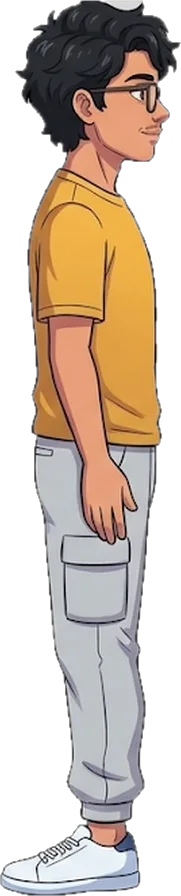
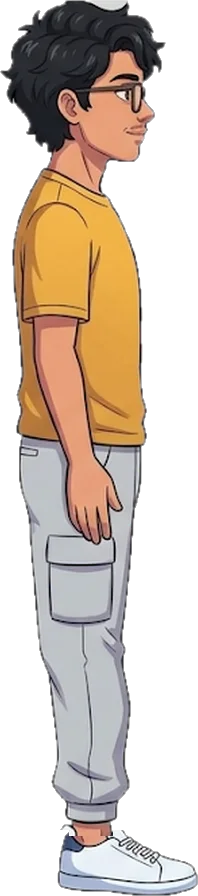
Story plays as a self-running film with animated scene cards; fix side-view shoe direction

diff --git a/components/story/StoryPlayer.js b/components/story/StoryPlayer.js
@@ -1,0 +1,98 @@
+'use client';
+import { useCallback, useEffect, useRef, useState } from 'react';
+import { AnimatePresence, motion, useAnimationFrame, useMotionValue } from 'motion/react';
+import { Pause, Play, SkipForward, X, RotateCcw } from 'lucide-react';
+import Chapter from './Chapter';
+import TimeCard from './TimeCard';
+import { scenes } from './scenes';
+import { chapters, cards } from '@/lib/story';
+
+export const CARD_SECONDS = 2.6;
+const BEAT_SECONDS = 4.6;
+/** How long a chapter plays: its title, then every beat with time to read it. */
+export const chapterSeconds = (c) => 3 + c.beats.length * BEAT_SECONDS;
+
+/**
+ * The story as a film that plays by itself: time card → chapter → time card → …
+ * Controls: pause/play (Space), next chapter (→), close (Esc).
+ */
+export default function StoryPlayer({ onClose, onProjects }) {
+  const [i, setI] = useState(0);
+  const [phase, setPhase] = useState('card'); // 'card' | 'play' | 'end'
+  const [paused, setPaused] = useState(false);
+  const progress = useMotionValue(0);
+  const cardT = useRef(0);
+  const bar = useRef(null);
+
+  const goTo = useCallback((n) => {
+    if (n >= chapters.length) { setPhase('end'); return; }
+    setI(n); setPhase('card'); cardT.current = 0; progress.set(0);
+  }, [progress]);
+
+  useAnimationFrame((_, ms) => {
+    if (paused) return;
+    const dt = Math.min(ms, 50) / 1000;
+    if (phase === 'card') {
+      cardT.current += dt;
+      if (cardT.current >= CARD_SECONDS) setPhase('play');
+    } else if (phase === 'play') {
+      const p = Math.min(1, progress.get() + dt / chapterSeconds(chapters[i]));
+      progress.set(p);
+      if (p >= 1) goTo(i + 1);
+    }
+    if (bar.current) {
+      const total = chapters.reduce((s, c) => s + CARD_SECONDS + chapterSeconds(c), 0);
+      const done = chapters.slice(0, i).reduce((s, c) => s + CARD_SECONDS + chapterSeconds(c), 0) + (phase === 'card' ? cardT.current : CARD_SECONDS + progress.get() * chapterSeconds(chapters[i]));
+      bar.current.style.transform = `scaleX(${phase === 'end' ? 1 : done / total})`;
+    }
+  });
+
+  useEffect(() => {
+    const onKey = (e) => {
+      if (e.key === 'Escape') onClose();
+      else if (e.key === ' ') { e.preventDefault(); setPaused((p) => !p); }
+      else if (e.key === 'ArrowRight') goTo(i + 1);
+    };
+    window.addEventListener('keydown', onKey);
+    const prev = document.body.style.overflow;
+    document.body.style.overflow = 'hidden';
+    return () => { window.removeEventListener('keydown', onKey); document.body.style.overflow = prev; };
+  }, [onClose, goTo, i]);
+
+  const c = chapters[i];
+  return (
+    <div role="dialog" aria-modal="true" aria-label="Krish’s story" className="fixed inset-0 z-[70] bg-night text-fg">
+      <AnimatePresence mode="sync">
+        {phase === 'play' && (
+          <motion.div key={`ch-${c.id}`} className="absolute inset-0" initial={{ scale: 1.08, opacity: 0 }} animate={{ scale: 1, opacity: 1 }} exit={{ scale: 0.96, opacity: 0 }} transition={{ duration: 0.6, ease: [0.2, 0.8, 0.2, 1] }}>
+            <Chapter chapter={c} Scene={scenes[c.scene]} progress={progress} />
+          </motion.div>
+        )}
+        {phase === 'card' && <TimeCard key={`card-${i}`} card={cards[i]} />}
+        {phase === 'end' && (
+          <motion.div key="end" className="absolute inset-0 grid place-items-center text-center px-6 bg-night" initial={{ opacity: 0 }} animate={{ opacity: 1 }}>
+            <div>
+              <p className="text-teal font-semibold">The end, for now</p>
+              <h3 className="mt-2 font-display font-extrabold text-5xl sm:text-7xl leading-[0.92] max-w-[14ch] mx-auto">Still figuring it out. That’s the point.</h3>
+              <div className="mt-10 flex flex-wrap justify-center gap-3">
+                <button type="button" onClick={() => goTo(0)} className="sticker sticker-hover rounded-full bg-surface px-6 py-3 font-semibold inline-flex items-center gap-2 cursor-pointer"><RotateCcw size={18} aria-hidden="true" /> Watch again</button>
+                <button type="button" onClick={onProjects ?? onClose} className="sticker sticker-hover rounded-full bg-mustard px-6 py-3 font-semibold cursor-pointer">See my projects</button>
+              </div>
+            </div>
+          </motion.div>
+        )}
+      </AnimatePresence>
+
+      <div className="absolute inset-x-0 bottom-0 z-[80] h-1 bg-white/10"><div ref={bar} className="h-full origin-left bg-mustard" style={{ transform: 'scaleX(0)' }} /></div>
+      <div className="absolute right-3 top-3 z-[80] flex gap-2">
+        {phase !== 'end' && (
+          <>
+            <button type="button" onClick={() => setPaused((p) => !p)} aria-label={paused ? 'Play' : 'Pause'} className="grid place-items-center size-11 rounded-full bg-night/70 backdrop-blur border border-line hover:border-mustard cursor-pointer">{paused ? <Play size={18} /> : <Pause size={18} />}</button>
+            <button type="button" onClick={() => goTo(i + 1)} aria-label="Next chapter" className="grid place-items-center size-11 rounded-full bg-night/70 backdrop-blur border border-line hover:border-mustard cursor-pointer"><SkipForward size={18} /></button>
+          </>
+        )}
+        <button type="button" onClick={onClose} aria-label="Close the story" className="grid place-items-center size-11 rounded-full bg-night/70 backdrop-blur border border-line hover:border-mustard cursor-pointer"><X size={18} /></button>
+      </div>
+    </div>
+  );
+}

diff --git a/components/story/StoryGate.js b/components/story/StoryGate.js
@@ -1,7 +1,10 @@
 'use client';
 import { useEffect, useState } from 'react';
 import { Play } from 'lucide-react';
-import Story from './Story';
+import { useReducedMotion } from 'motion/react';
+import StaticStory from './StaticStory';
+import StoryPlayer from './StoryPlayer';
+import { chapters } from '@/lib/story';
 import Surat from './scenes/Surat';
 import { motionValue } from 'motion/react';
 
@@ -10,7 +13,11 @@ const still = motionValue(0.2);
 /** The optional cinematic story at the end of the portfolio. Nothing loads until the visitor presses play. */
 export default function StoryGate() {
   const [open, setOpen] = useState(false);
-  useEffect(() => { if (open) requestAnimationFrame(() => document.getElementById('surat')?.scrollIntoView({ behavior: 'smooth' })); }, [open]);
+  const reduce = useReducedMotion();
+  // Reduced motion: the story opens as a calm page below instead of a film.
+  useEffect(() => { if (open && reduce) requestAnimationFrame(() => document.getElementById('surat')?.scrollIntoView({ behavior: 'smooth' })); }, [open, reduce]);
+  const close = () => { setOpen(false); };
+  const toProjects = () => { setOpen(false); requestAnimationFrame(() => document.getElementById('projects')?.scrollIntoView({ behavior: 'smooth' })); };
 
   return (
     <section id="story" data-story aria-labelledby="story-title" className="relative border-t border-line">
@@ -18,13 +25,11 @@ export default function StoryGate() {
         <div aria-hidden="true" className="absolute inset-0 opacity-60"><Surat progress={still} /></div>
         <div aria-hidden="true" className="absolute inset-0 bg-gradient-to-t from-night via-night/70 to-night/30" />
         <div className="relative z-10 mx-auto max-w-6xl h-full px-5 flex flex-col justify-end pb-[12svh]">
-          <p className="text-teal font-semibold text-lg">Optional, about three minutes</p>
+          <p className="text-teal font-semibold text-lg">A short film, about two minutes</p>
           <h2 id="story-title" className="mt-2 font-display font-extrabold tracking-tight text-5xl sm:text-7xl leading-[0.92] max-w-[16ch]">The story of someone who refused to stop figuring things out.</h2>
           <p className="mt-5 text-lg text-muted max-w-[52ch]">Five chapters from Surat to the starting grid: the lost first year, the App Store rejections, six hard months at Samsung PRISM, and the wins that came after.</p>
           <div className="mt-8">
-            {open ? (
-              <a href="#surat" className="sticker sticker-hover rounded-full bg-mustard px-7 py-3.5 font-semibold text-lg inline-flex items-center gap-2"><Play size={20} aria-hidden="true" /> Back to the start</a>
-            ) : (
+            {(
               <button type="button" onClick={() => setOpen(true)} className="group sticker sticker-hover rounded-full bg-mustard px-7 py-3.5 font-semibold text-lg inline-flex items-center gap-3 cursor-pointer">
                 <span className="grid place-items-center size-8 rounded-full bg-night text-mustard transition-transform group-hover:scale-110"><Play size={16} fill="currentColor" aria-hidden="true" /></span>
                 Play the story
@@ -33,7 +38,7 @@ export default function StoryGate() {
           </div>
         </div>
       </div>
-      {open && <Story />}
+      {open && (reduce ? <StaticStory chapters={chapters} /> : <StoryPlayer onClose={close} onProjects={toProjects} />)}
     </section>
   );
 }

diff --git a/components/story/Chapter.js b/components/story/Chapter.js
@@ -22,7 +22,7 @@ function BeatSlot({ beat, i, n, progress, sectionRef }) {
   const y = useTransform(progress, [s, s + f], [40, 0]);
   // Keyboard users: focusing a link inside a beat scrolls the story to that beat.
   const onFocusCapture = () => {
-    const el = sectionRef.current;
+    const el = sectionRef?.current;
     if (!el) return;
     const top = el.getBoundingClientRect().top + window.scrollY;
     window.scrollTo({ top: top + ((s + e) / 2) * (el.offsetHeight - window.innerHeight) });
@@ -35,13 +35,13 @@ function BeatSlot({ beat, i, n, progress, sectionRef }) {
 }
 
 /** A chapter of the story: a sticky stage the visitor scrolls through like a film scene. */
-export default function Chapter({ chapter, Scene }) {
+export default function Chapter({ chapter, Scene, progress: played }) {
   const ref = useRef(null);
   const { mood, setBase } = useAvatar();
-  const { scrollYProgress: progress } = useScroll({ target: ref, offset: ['start start', 'end end'] });
+  const { scrollYProgress } = useScroll({ target: ref, offset: ['start start', 'end end'] });
+  // Played by the story player (time-driven), or scrubbed by scrolling.
+  const progress = played ?? scrollYProgress;
   const titleOpacity = useTransform(progress, [0, 0.03, START - 0.03, START], [1, 1, 1, 0]);
-  // Cut from and to black at each end of the chapter, like a film edit.
-  const black = useTransform(progress, [0, 0.025, 0.975, 1], [1, 0, 0, 1]);
   const titleScale = useTransform(progress, [0, START], [1, 1.08]);
   const lastBeat = useRef(-2);
   const n = chapter.beats.length;
@@ -56,8 +56,8 @@ export default function Chapter({ chapter, Scene }) {
   });
 
   return (
-    <section ref={ref} id={chapter.id} aria-labelledby={`${chapter.id}-title`} data-chapter={chapter.id} style={{ height: `${(n + 1.6) * 100}svh` }} className="relative">
-      <div data-pinned className="sticky top-0 h-dvh overflow-hidden">
+    <section ref={ref} id={chapter.id} aria-labelledby={`${chapter.id}-title`} data-chapter={chapter.id} style={{ height: played ? '100%' : `${(n + 1.6) * 100}svh` }} className="relative">
+      <div data-pinned className={`${played ? "absolute inset-0" : "sticky top-0 h-dvh"} overflow-hidden`}>
         <div className="absolute inset-0"><Scene progress={progress} /></div>
 
         <motion.div style={{ opacity: titleOpacity, scale: titleScale }} className="absolute z-30 inset-x-0 top-[9dvh] flex justify-center px-6 text-center pointer-events-none">
@@ -76,11 +76,10 @@ export default function Chapter({ chapter, Scene }) {
 
         <ol className="absolute z-30 left-4 right-4 top-[8dvh] lg:top-0 lg:h-full lg:left-auto lg:right-[6vw] lg:w-[400px]">
           {chapter.beats.map((beat, i) => (
-            <BeatSlot key={i} beat={beat} i={i} n={n} progress={progress} sectionRef={ref} />
+            <BeatSlot key={i} beat={beat} i={i} n={n} progress={progress} sectionRef={played ? null : ref} />
           ))}
         </ol>
 
-        <motion.div aria-hidden="true" style={{ opacity: black }} className="absolute inset-0 bg-black pointer-events-none z-40" />
         <div aria-hidden="true" className="absolute inset-x-0 top-0 h-[5dvh] bg-black z-40" />
         <div aria-hidden="true" className="absolute inset-x-0 bottom-0 h-[5dvh] bg-black z-40" />
       </div>

diff --git a/components/story/TimeCard.js b/components/story/TimeCard.js
@@ -1,0 +1,46 @@
+'use client';
+import { motion } from 'motion/react';
+
+const shapes = {
+  kites: (c) => <path d="M0 -16 L12 0 L0 18 L-12 0Z" fill={c} />,
+  arrows: (c) => <path d="M-14 -6 H4 V-14 L16 0 L4 14 V6 H-14Z" fill={c} />,
+  stars: (c) => <path d="M0 -16 L4.7 -5 16 -5 7 2 10 14 0 7 -10 14 -7 2 -16 -5 -4.7 -5Z" fill={c} />,
+  moons: (c) => <path d="M6 -14 A14 14 0 1 0 6 14 A10 10 0 1 1 6 -14Z" fill={c} />,
+  flags: (c) => <g fill={c}><rect x="-14" y="-14" width="10" height="10" /><rect x="4" y="-14" width="10" height="10" /><rect x="-4" y="-4" width="10" height="10" /><rect x="-14" y="6" width="10" height="10" /><rect x="4" y="6" width="10" height="10" /></g>,
+};
+
+/** A bold scene card between chapters: patterned backdrop, chunky wobbling text, zooms through. */
+export default function TimeCard({ card }) {
+  const words = card.text.split(' ');
+  return (
+    <motion.div
+      className="absolute inset-0 grid place-items-center overflow-hidden"
+      style={{ background: card.bg }}
+      initial={{ clipPath: 'circle(0% at 50% 50%)' }}
+      animate={{ clipPath: 'circle(150% at 50% 50%)' }}
+      exit={{ scale: 1.6, opacity: 0, rotate: 4 }}
+      transition={{ duration: 0.6, ease: [0.7, 0, 0.3, 1] }}
+    >
+      <motion.svg aria-hidden="true" className="absolute inset-[-10%] w-[120%] h-[120%]" animate={{ x: [0, -40], y: [0, -24] }} transition={{ duration: 3, ease: 'linear' }}>
+        <defs>
+          <pattern id={`tc-${card.motif}`} width="90" height="90" patternUnits="userSpaceOnUse" patternTransform="rotate(-12)">
+            <rect width="90" height="90" fill="none" />
+            <g transform="translate(22 22)" opacity=".28">{shapes[card.motif](card.fg)}</g>
+            <g transform="translate(67 67) rotate(30)" opacity=".18">{shapes[card.motif](card.fg)}</g>
+          </pattern>
+        </defs>
+        <rect width="100%" height="100%" fill={`url(#tc-${card.motif})`} />
+      </motion.svg>
+      <h3 aria-label={card.text} className="relative px-6 text-center font-display font-extrabold leading-[0.9] tracking-tight text-[clamp(3.4rem,15vw,9rem)] -rotate-3" style={{ color: card.fg, textShadow: `5px 6px 0 ${card.bg === '#F0B544' ? '#9A5A10' : 'rgba(0,0,0,.35)'}` }}>
+        {words.map((w, i) => (
+          <motion.span key={i} className="inline-block mx-[0.12em]"
+            initial={{ y: 60, opacity: 0, rotate: i % 2 ? 8 : -8 }}
+            animate={{ y: [60, -10, 0], opacity: 1, rotate: [i % 2 ? 8 : -8, i % 2 ? -3 : 3, 0] }}
+            transition={{ duration: 0.7, delay: 0.25 + i * 0.12, ease: 'easeOut' }}>
+            {w}
+          </motion.span>
+        )).flatMap((el, i) => (i ? [' ', el] : [el]))}
+      </h3>
+    </motion.div>
+  );
+}

diff --git a/tests/player.test.js b/tests/player.test.js
@@ -1,0 +1,34 @@
+import { render, screen, act, fireEvent } from '@testing-library/react';
+import { AvatarProvider } from '@/components/AvatarProvider';
+import StoryPlayer, { chapterSeconds, CARD_SECONDS } from '@/components/story/StoryPlayer';
+import { cards } from '@/lib/story';
+import { chapters } from '@/lib/story';
+
+test('every chapter gets a time card, and the cards use real years', () => {
+  expect(cards.length).toBe(chapters.length);
+  expect(cards.map((c) => c.text)).toEqual(['Meanwhile, in Surat…', '2023. First year…', 'One year later…', 'Another year later…', 'And now…']);
+});
+
+test('chapters play long enough to read every beat', () => {
+  for (const c of chapters) expect(chapterSeconds(c)).toBeGreaterThanOrEqual(3 + c.beats.length * 4);
+  expect(CARD_SECONDS).toBeGreaterThanOrEqual(2);
+});
+
+test('the player opens on the first time card, plays by itself, and can be paused and closed', async () => {
+  vi.useFakeTimers();
+  const onClose = vi.fn();
+  render(<AvatarProvider><StoryPlayer onClose={onClose} /></AvatarProvider>);
+  expect(screen.getByRole('dialog', { name: /story/i })).toBeInTheDocument();
+  expect(screen.getByRole('heading', { name: 'Meanwhile, in Surat…' })).toBeInTheDocument();
+  fireEvent.click(screen.getByRole('button', { name: /pause/i }));
+  expect(screen.getByRole('button', { name: /play/i })).toBeInTheDocument();
+  fireEvent.keyDown(window, { key: 'Escape' });
+  expect(onClose).toHaveBeenCalled();
+  vi.useRealTimers();
+});
+
+test('skip jumps to the next chapter card', () => {
+  render(<AvatarProvider><StoryPlayer onClose={() => {}} /></AvatarProvider>);
+  fireEvent.click(screen.getByRole('button', { name: /next chapter/i }));
+  expect(screen.getByRole('heading', { name: '2023. First year…' })).toBeInTheDocument();
+});

diff --git a/components/story/Traveler.js b/components/story/Traveler.js
@@ -55,9 +55,9 @@ export default function Traveler({ travel = 'walk', progress, mood = 'confident'
         {ninja && view !== 'front' && <div className={`absolute top-[20%] h-[40%] w-[140%] speed-lines ${view === 'right' ? 'right-[70%]' : 'left-[70%] -scale-x-100'}`} />}
         <Image src="/avatar/body-front.webp" alt="" width={254} height={898} sizes="200px" className={`absolute inset-0 h-full w-auto mx-auto transition-opacity duration-150 ${side ? 'opacity-0' : 'opacity-100'}`} priority={false} />
         <div className={`absolute inset-0 transition-opacity duration-150 ${side ? 'opacity-100' : 'opacity-0'} ${view === 'left' ? '-scale-x-100' : ''}`}>
-          <Image src="/avatar/body-side.webp" alt="" width={181} height={896} sizes="160px" className="absolute inset-0 h-full w-auto mx-auto" />
+          <Image src="/avatar/body-side.webp" alt="" width={198} height={896} sizes="160px" className="absolute inset-0 h-full w-auto mx-auto" />
           {ninja && (
-            <svg viewBox="0 0 181 896" className="absolute inset-0 h-full w-auto mx-auto overflow-visible">
+            <svg viewBox="0 0 198 896" className="absolute inset-0 h-full w-auto mx-auto overflow-visible">
               <path d="M52 66 Q105 52 150 62 L152 76 Q105 66 54 80Z" fill="#1E2430" />
               <rect x="118" y="58" width="26" height="15" rx="3" fill="#BFC8D2" stroke="#15212B" strokeWidth="2" />
               <text x="131" y="70" textAnchor="middle" fontSize="12" fontWeight="900" fill="#15212B">K</text>

diff --git a/lib/story.js b/lib/story.js
@@ -92,3 +92,12 @@ export function lowsFollowedByNext(list) {
     .filter((c) => c.beats.some((b, i) => b.kind === 'low' && c.beats[i + 1]?.kind !== 'next'))
     .map((c) => c.id);
 }
+
+/** Time cards played before each chapter, like an animated show's scene cards. */
+export const cards = [
+  { text: 'Meanwhile, in Surat…', bg: '#F0B544', fg: '#2A1606', motif: 'kites' },
+  { text: '2023. First year…', bg: '#5FD0C6', fg: '#0B2A2A', motif: 'arrows' },
+  { text: 'One year later…', bg: '#E8577A', fg: '#FFF4D6', motif: 'stars' },
+  { text: 'Another year later…', bg: '#7A5CFF', fg: '#FFE36E', motif: 'moons' },
+  { text: 'And now…', bg: '#FF6A3D', fg: '#FFF4D6', motif: 'flags' },
+];

diff --git a/tests/page.test.js b/tests/page.test.js
@@ -21,7 +21,7 @@ test('the story is optional: nothing plays until the visitor presses play', () =
   expect(container).toHaveTextContent('refused to stop figuring things out');
   expect(container.querySelector('[data-chapter]')).toBeNull();
   fireEvent.click(screen.getByRole('button', { name: /play the story/i }));
-  expect(container.querySelector('[data-chapter="surat"]')).not.toBeNull();
+  expect(screen.getByRole('dialog', { name: /story/i })).toBeInTheDocument();
 });
 
 test('no friend is named anywhere on the page', () => {
